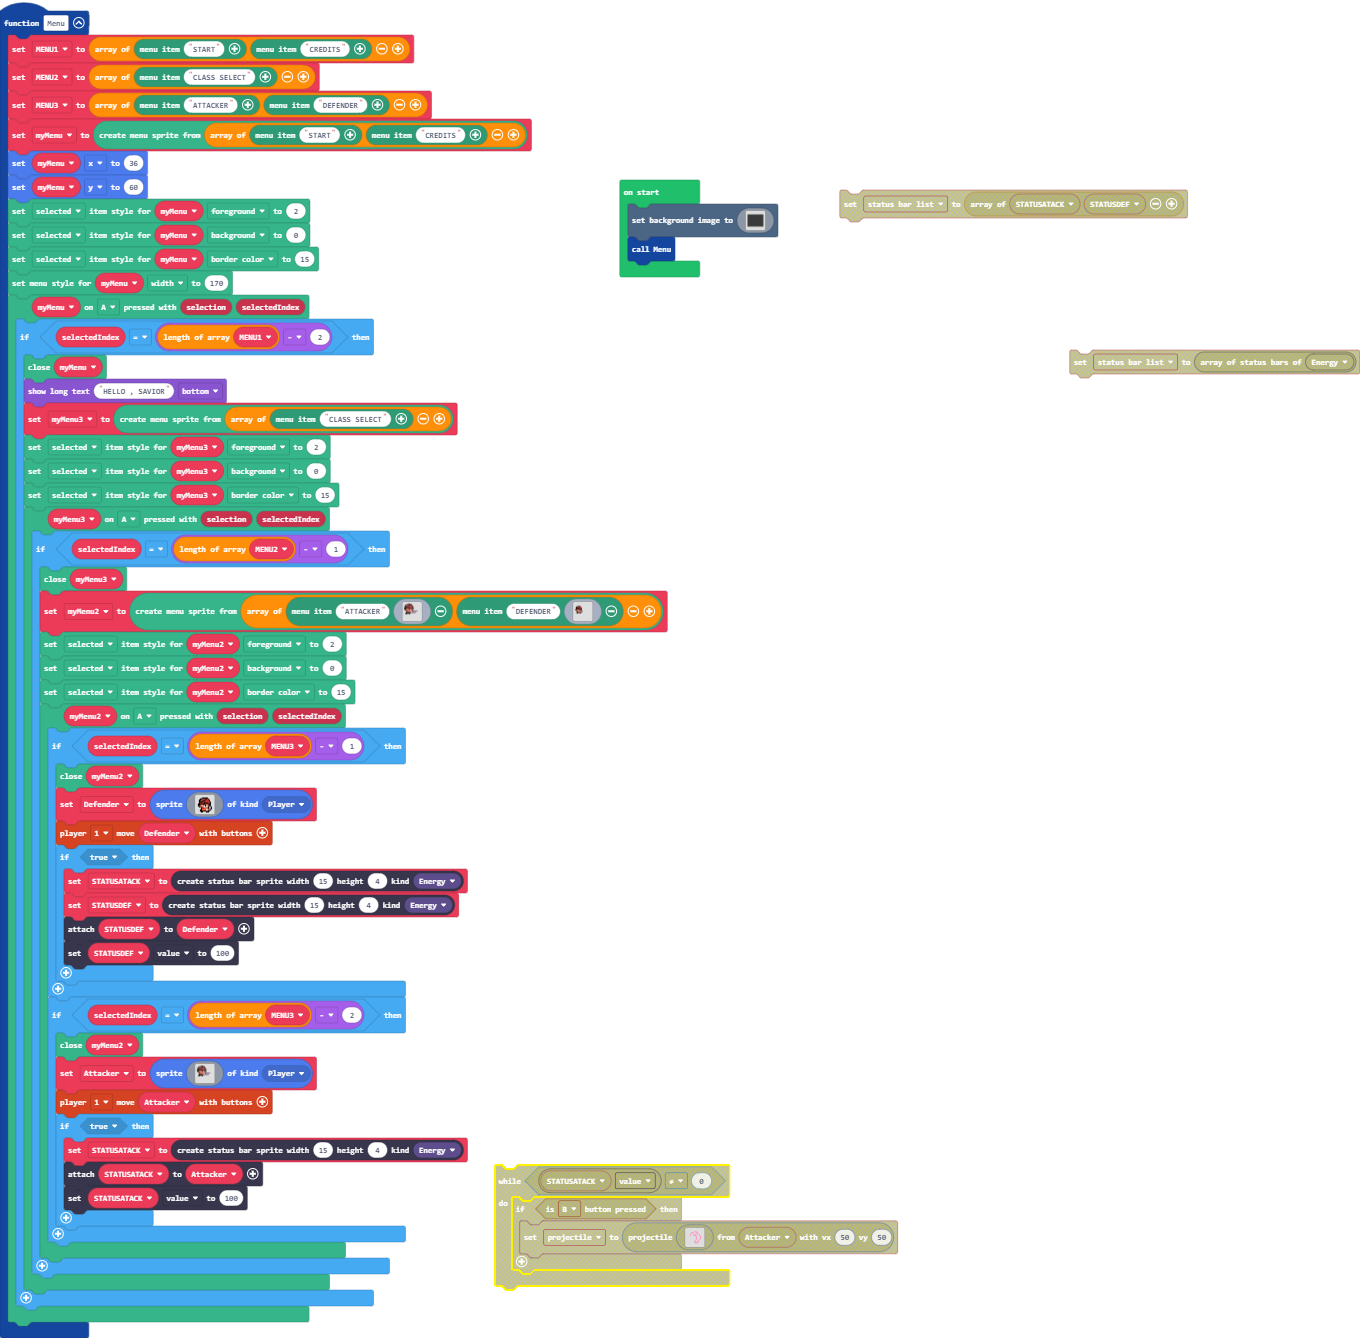
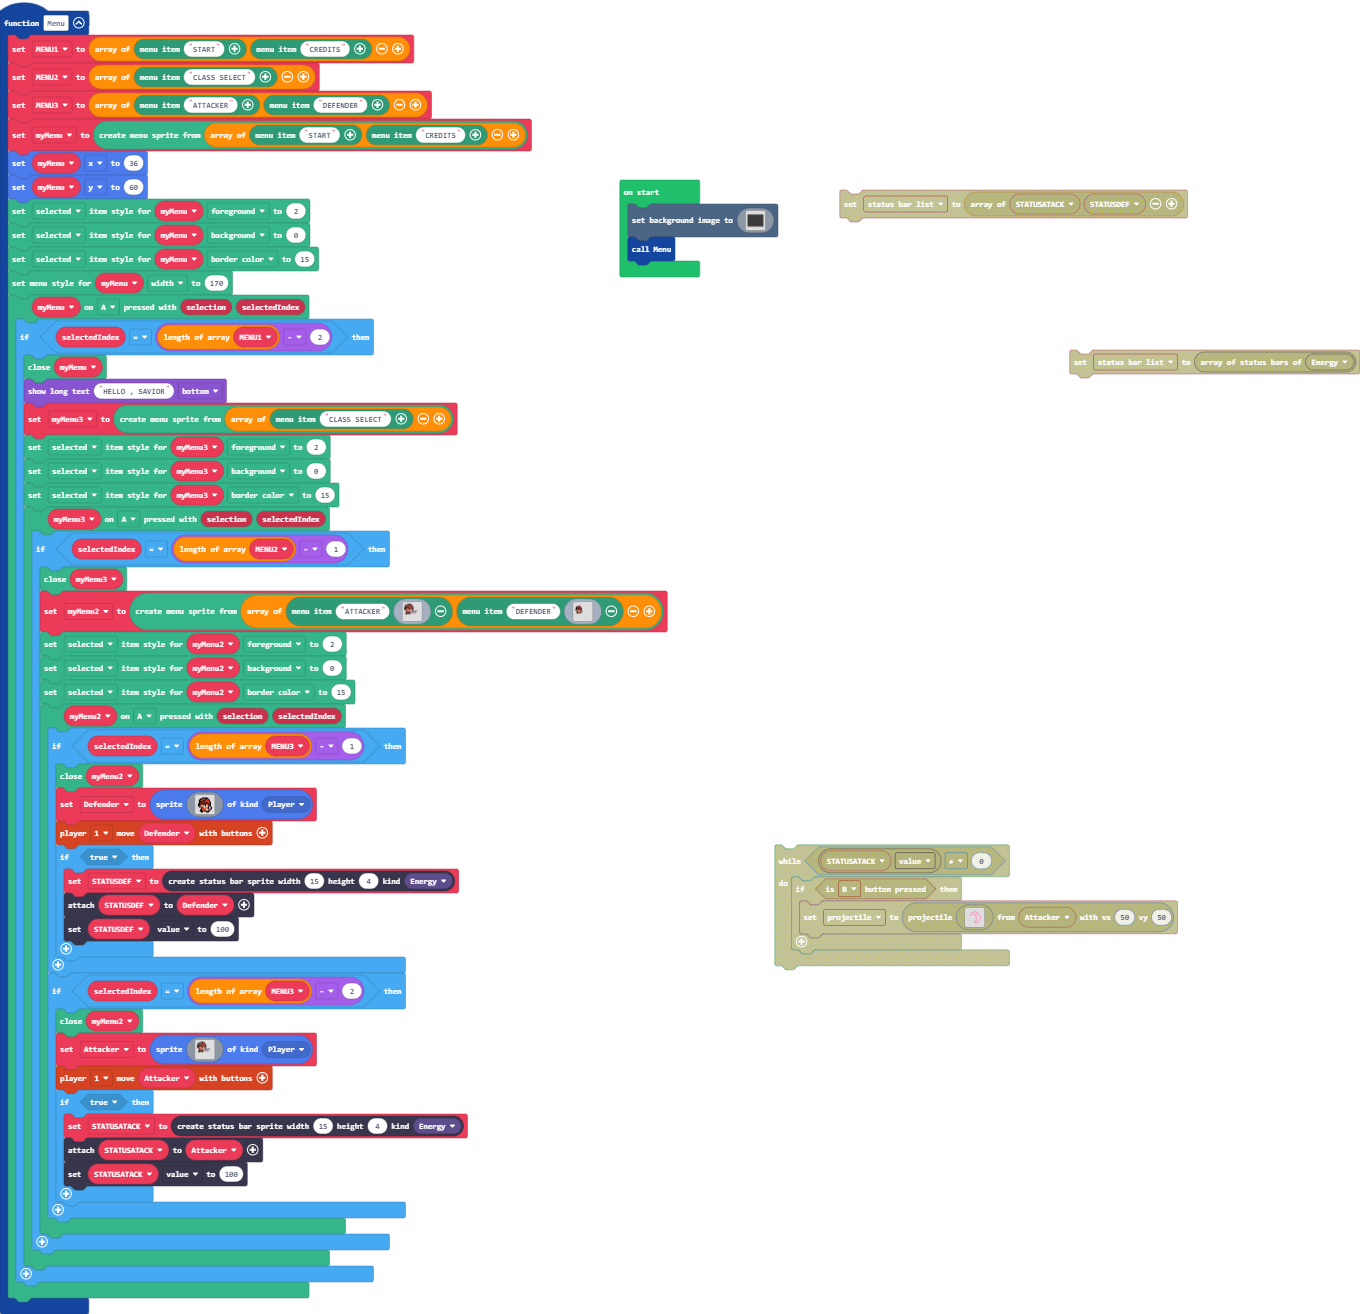
Update main.blocks, main.ts

diff --git a/main.ts b/main.ts
@@ -97,7 +97,6 @@ function Menu () {
                                 `, SpriteKind.Player)
                             controller.player1.moveSprite(Defender)
                             if (true) {
-                                STATUSATACK = statusbars.create(15, 4, StatusBarKind.Energy)
                                 STATUSDEF = statusbars.create(15, 4, StatusBarKind.Energy)
                                 STATUSDEF.attachToSprite(Defender)
                                 STATUSDEF.value = 100
@@ -144,9 +143,9 @@ function Menu () {
         }
     })
 }
+let STATUSATACK: StatusBarSprite = null
 let Attacker: Sprite = null
 let STATUSDEF: StatusBarSprite = null
-let STATUSATACK: StatusBarSprite = null
 let Defender: Sprite = null
 let myMenu2: miniMenu.MenuSprite = null
 let myMenu3: miniMenu.MenuSprite = null
